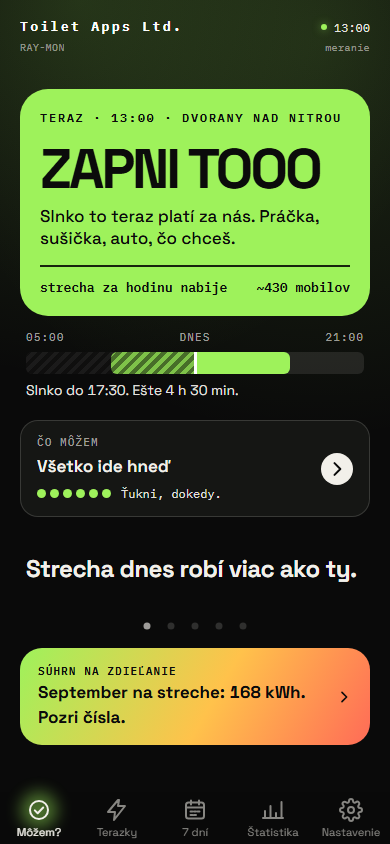
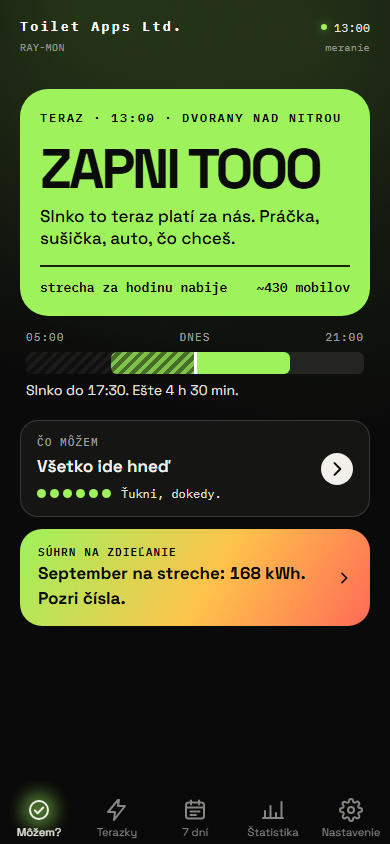
feat: karta Môžem? bez pásu hlášok (#298)
## Čo sa mení

Karta Môžem? v súčasnej appke už nemá pás hlášok na listovanie (swipe)
ani bodky pod ním.

- `web/render/mozem.js`, `web/mozem-interactions.js`: preč render pásu,
udržiavanie stránky pri prekreslení a poslucháče posunu, ťuknutia a
bodiek.
- `style.css`: preč pravidlá `.mozem-quip*`.
- `web/state.js`: preč `mozemQuip`.
- `test/e2e/app.spec.js`: preč testy pásu hlášok (listovanie, ťah nad
pásom).
- README, ARCHITECTURE a komentár v `index.html` už o páse nehovoria.
- Obnovená snímka `docs/img/mozem.png`.

Model v `shared/mozem.js` ostáva bez zmeny – hlášku na ťuknutie ukazuje
nová appka (`obloha/`), tej sa zmena netýka.

## Overenie

- `npm run check` – zelené (350 testov)
- `npx playwright test test/e2e/app.spec.js` – 128 prešlo
- `npm run screenshots`

🤖 Generated with [Claude Code](https://claude.com/claude-code)

Changed region(s): [[0.0308, 0.6161, 0.9538, 0.8934]]

diff --git a/web/render/mozem.js b/web/render/mozem.js
@@ -1,4 +1,4 @@
-// Karta Môžem?: jedno veľké slovo, pás dneška, riadok „Čo môžem“ a hláška; veci s ikonami sú
+// Karta Môžem?: jedno veľké slovo, pás dneška a riadok „Čo môžem“; veci s ikonami sú
 // o ťuknutie ďalej, na obrazovke so zoznamom. Celý obsah skladá render do #mozem-body,
 // v index.html je len nosič. Počíta shared/mozem.js, texty sú v shared/messages.js.
 
@@ -8,7 +8,7 @@ import { mozemModel } from '../../shared/mozem.js';
 import { summaryModel } from '../../shared/summary.js';
 import { localMinutes } from '../../shared/solar.js';
 import { ICON_NEXT, MOZEM_ICONS, MOZEM_MARKS } from '../icons.js';
-import { changed, writeHtml } from '../memo.js';
+import { writeHtml } from '../memo.js';
 import { backButtonHtml, summaryHtml, summaryLinkHtml } from './suhrn.js';
 
 /** @typedef {ReturnType<typeof mozemModel>} MozemModel */
@@ -57,34 +57,6 @@ function itemHtml(it, open) {
 }
 
 /**
- * Hlášky ako pás na listovanie - ten istý kolotoč (.pager), aký má karta Terazky pod ciferníkom.
- * Posúva a prichytáva prehliadač, ťuknutie na hlášku posunie pás na ďalšiu. Jediná hláška
- * (načítava sa) je bez bodiek a pás nemá kam ísť.
- *
- * Stránka v HTML nie je - ani aktívna bodka (tú prepína renderMozem triedou). Inak by každé
- * listovanie prepísalo celý obsah karty a prepis uprostred plynulého posunu pás zastaví.
- * @param {MozemModel} m
- */
-function quipsHtml(m) {
-    const pages = m.quips
-        .map(
-            (q) =>
-                `<div class="pager-page"><button type="button" class="mozem-quip" data-mozem-quip aria-label="Ďalšia hláška: ${escapeHtml(q)}"><q>${escapeHtml(q)}</q></button></div>`,
-        )
-        .join('');
-    const dots =
-        m.quips.length > 1
-            ? `<div class="pager-dots mozem-quip-dots">${m.quips
-                  .map(
-                      (_, i) =>
-                          `<button type="button" class="pager-dot" data-mozem-quip-dot="${i}" aria-label="Hláška ${i + 1} z ${m.quips.length}"></button>`,
-                  )
-                  .join('')}</div>`
-            : '';
-    return `<div class="pager mozem-quips" data-mozem-quips role="group" aria-label="Hlášky, potiahni do strán" tabindex="0">${pages}</div>${dots}`;
-}
-
-/**
  * Riadok, ktorý otvára zoznam vecí: koľko ide hneď, bodka za každú vec vo farbe jej odpovede
  * a výnimky slovom. Ikony sú až v zozname, karta ostáva čistá.
  * @param {MozemModel} m
@@ -103,7 +75,7 @@ function glanceHtml(m) {
  * @param {MozemModel} m @param {string} kick
  */
 export function mozemHtml(m, kick) {
-    return heroHtml(m, kick) + stripHtml(m) + glanceHtml(m) + quipsHtml(m);
+    return heroHtml(m, kick) + stripHtml(m) + glanceHtml(m);
 }
 
 /**
@@ -121,45 +93,14 @@ export function mozemListHtml(m, open, kick) {
     );
 }
 
-/** Posun pásu hlášok v nosiči, null = pás tam nie je (súhrn, prvé vykreslenie). @param {HTMLElement} body */
-function quipScroll(body) {
-    const pager = body.querySelector('[data-mozem-quips]');
-    return pager ? pager.scrollLeft : null;
-}
-
-/**
- * Po prepísaní obsahu stojí nový pás hlášok na prvej stránke. Obsah sa prepisuje aj sám
- * od seba (hodiny v hlavičke každú minútu), takže bez tohto by hláška pod rukou odskočila
- * na hlášku dňa. Posun je okamžitý, nie plynulý - človek nemá vidieť, že sa pás vymenil.
- *
- * Pozíciu drží prehliadač, takže prednosť má posun starého pásu. Stránka zo stavu doň
- * dobehne až po ustálení (PAGER_SETTLE_MS) - ťuknutie na vec hneď po listovaní by pás
- * podľa nej vrátil späť. Stav platí len vtedy, keď starý pás nebol (návrat zo súhrnu).
- * @param {HTMLElement} body @param {number | null} left posun starého pásu @param {number} page stránka zo stavu
- */
-function keepQuipPage(body, left, page) {
-    const pager = body.querySelector('[data-mozem-quips]');
-    if (!(pager instanceof HTMLElement)) return;
-    const pages = pager.querySelectorAll('.pager-page');
-    const target = pages[page];
-    const byState = target instanceof HTMLElement ? target.offsetLeft - /** @type {HTMLElement} */ (pages[0]).offsetLeft : 0;
-    const to = left ?? byState;
-    if (to) pager.scrollTo({ left: to, behavior: 'instant' });
-}
-
 /** @param {import('../state.js').AppState} state @param {import('../dom.js').Dom} dom */
 export function renderMozem(state, dom) {
     // Súhrn je obrazovka tej istej karty, v tom istom nosiči - ako detail dňa v karte 7 dní.
     if (state.mozemSummary)
         return writeHtml(dom.mozemBody, summaryHtml(summaryModel(state, state.summaryPeriod), state.summaryPeriod), 'mozemBody');
-    const m = mozemModel(state, state.mozemQuip, state.launches);
+    const m = mozemModel(state, 0, state.launches);
     const kick = `Teraz · ${minutesToTimeStr(localMinutes(state.now, state.site.timezone))} · ${state.site.name}`;
     // Zoznam vecí je druhá obrazovka karty v tom istom nosiči, rovnako ako súhrn.
     if (state.mozemList) return writeHtml(dom.mozemBody, mozemListHtml(m, state.mozemOpen, kick), 'mozemBody');
-    const html = mozemHtml(m, kick) + summaryLinkHtml(summaryModel(state, 'mesiac'));
-    /** @type {number | null} */ let left = null;
-    const wrote = writeHtml(dom.mozemBody, html, 'mozemBody', () => (left = quipScroll(dom.mozemBody)));
-    if (wrote) keepQuipPage(dom.mozemBody, left, m.quipPage);
-    if (wrote || changed('mozemQuipPage', m.quipPage))
-        dom.mozemBody.querySelectorAll('[data-mozem-quip-dot]').forEach((dot, i) => dot.classList.toggle('active', i === m.quipPage));
+    writeHtml(dom.mozemBody, mozemHtml(m, kick) + summaryLinkHtml(summaryModel(state, 'mesiac')), 'mozemBody');
 }

diff --git a/test/e2e/app.spec.js b/test/e2e/app.spec.js
@@ -21,7 +21,6 @@ import {
     PREVIEW,
     DAYLOG_STORAGE_KEY,
     LAUNCH_STORAGE_KEY,
-    PAGER_SETTLE_MS,
     SETTINGS_STORAGE_KEY,
     SITE_STORAGE_KEY,
     START_STORAGE_KEY,
@@ -280,7 +279,7 @@ test('verdikt sa listuje do strán: teraz (defaultne prvá), spotrebiče, predpo
     await expect(dots.nth(0)).toHaveClass(/active/);
     await expect(page.locator('#verdict-headline')).toBeInViewport();
 
-    // Ťuknutie na odporúčanie posunie pás na ďalšiu stránku, ako hlášky na karte Môžem?.
+    // Ťuknutie na odporúčanie posunie pás na ďalšiu stránku.
     await page.locator('#verdict-headline').click();
     await expect(dots.nth(1)).toHaveClass(/active/);
     await expect(page.locator('#verdict-go-row')).toBeInViewport();
@@ -1524,12 +1523,6 @@ async function swipe(page, sel, { dx, dy = 0, ms = 0 }) {
     await cdp.detach();
 }
 
-/** Na ktorej stránke stojí pás hlášok v karte Môžem? - podľa posunu, nie podľa bodiek.
- * @param {import('@playwright/test').Page} page */
-function quipStrana(page) {
-    return page.locator('[data-mozem-quips]').evaluate((el) => Math.round(el.scrollLeft / el.clientWidth));
-}
-
 /** Ťah prstom v danom mieste obrazovky. Prázdne miesto pod krátkou kartou nie je prvok,
  * takže sa nedá zamerať selektorom ako pri `swipe`.
  * @param {import('@playwright/test').Page} page @param {{ x: number, y: number, dx: number }} opts */
@@ -1955,22 +1948,6 @@ test.describe('listovanie kariet prstom', () => {
         await expect(dots.nth(2)).toHaveClass(/active/);
         await swipe(page, '#verdict-pager', { dx: -120 });
         await ocakavajKartu(page, 'terazky');
-        expect(errors).toEqual([]);
-    });
-
-    test('ťah po hláške na karte Môžem? listuje hlášky, nie karty', async ({ page }) => {
-        const errors = await openApp(page);
-        await page.locator('#nav-mozem').click();
-        await ocakavajKartu(page, 'mozem');
-        await page.locator('[data-mozem-quips]').evaluate((el) => el.scrollIntoView({ block: 'center' }));
-
-        // Pás sa listuje sám, gesto nad ním patrí jemu - aj na prvej hláške, kam späť nie je kam.
-        // Posúvanie samotné robí prehliadač a dotyk cez CDP ho v teste nespustí (ani pri páse
-        // odporúčaní); pohyb pásu overuje koliesko v teste karty Môžem?.
-        await swipe(page, '[data-mozem-quips]', { dx: -120 });
-        await ocakavajKartu(page, 'mozem');
-        await swipe(page, '[data-mozem-quips]', { dx: 120 });
-        await ocakavajKartu(page, 'mozem');
         expect(errors).toEqual([]);
     });
 
@@ -3048,8 +3025,8 @@ test.describe('karta Štatistika', () => {
 });
 
 test.describe('karta Môžem?', () => {
-    /** Model karty tak, ako ho appka počíta v pevnom čase testov. @param {number} [quipPage] */
-    const model = (quipPage = 0) => mozemModel({ ...OWNER, now: FIXED_NOW, loading: false, pv, forecast: forecastAt(FIXED_NOW) }, quipPage);
+    /** Model karty tak, ako ho appka počíta v pevnom čase testov. */
+    const model = () => mozemModel({ ...OWNER, now: FIXED_NOW, loading: false, pv, forecast: forecastAt(FIXED_NOW) });
 
     test('o 13:00 za jasna: veľké slovo, veta, pás dneška a riadok Čo môžem podľa modelu', async ({ page }) => {
         const errors = await openApp(page);
@@ -3103,45 +3080,6 @@ test.describe('karta Môžem?', () => {
         await btn.click();
         await expect(page.locator('.mozem-more')).toHaveCount(0);
         expect(await page.evaluate(() => history.length), 'rozbalenie nepridáva krok do histórie').toBe(pred);
-        expect(errors).toEqual([]);
-    });
-
-    test('hlášky sú pás: ťuknutie a bodka posunú na inú, prekreslenie ju nechá na mieste', async ({ page }) => {
-        const errors = await openApp(page);
-        await page.locator('#nav-mozem').click();
-        const m = model();
-        const hlaska = (/** @type {number} */ i) => page.locator('.mozem-quip q').nth(i);
-        const dots = page.locator('[data-mozem-quip-dot]');
-        await expect(page.locator('.mozem-quip q')).toHaveText(m.quips);
-        await expect(dots).toHaveCount(m.quips.length);
-        await expect(hlaska(0)).toHaveText(model(0).quip);
-        await expect.poll(() => quipStrana(page)).toBe(0);
-
-        await hlaska(0).click();
-        await expect.poll(() => quipStrana(page)).toBe(1);
-        await expect(dots.nth(1)).toHaveClass(/active/);
-
-        // Návrat zo zoznamu vecí skladá pás nanovo - stojí na hláške, na ktorej človek bol.
-        // Stránka ide do stavu až po ustálení posunu, preto sa naň počká.
-        await page.waitForTimeout(PAGER_SETTLE_MS * 3);
-        await page.locator('[data-mozem-list]').click();
-        await page.locator('[data-mozem-list-back]').click();
-        await expect.poll(() => quipStrana(page)).toBe(1);
-        await expect(dots.nth(1)).toHaveClass(/active/);
-
-        // Bodka skočí na ľubovoľnú; ťuknutie na poslednú ide znova na prvú.
-        const posledna = m.quips.length - 1;
-        await dots.nth(posledna).click();
-        await expect.poll(() => quipStrana(page)).toBe(posledna);
-        await hlaska(posledna).click();
-        await expect.poll(() => quipStrana(page)).toBe(0);
-        await expect(dots.nth(0)).toHaveClass(/active/);
-
-        // Posun do strán nad pásom je to isté gesto ako prst - stránku dopočíta scroll-snap.
-        await page.locator('[data-mozem-quips]').hover();
-        await page.mouse.wheel(400, 0);
-        await expect.poll(() => quipStrana(page)).toBe(1);
-        await expect(dots.nth(1)).toHaveClass(/active/);
         expect(errors).toEqual([]);
     });
 

diff --git a/web/mozem-interactions.js b/web/mozem-interactions.js
@@ -1,4 +1,4 @@
-// Poslucháče karty Môžem?: zoznam vecí, rozbalenie veci, „Pustil/a som“, pás hlášok a súhrn na
+// Poslucháče karty Môžem?: zoznam vecí, rozbalenie veci, „Pustil/a som“ a súhrn na
 // zdieľanie. Každý končí volaním setState (alebo krokom v histórii cez backTo), kreslí
 // web/render/mozem.js.
 
@@ -6,7 +6,6 @@ import { toggleLaunch } from '../shared/launches.js';
 import { localDateKey, localMinutes } from '../shared/solar.js';
 import { SUMMARY_PERIODS } from '../shared/summary.js';
 import { backTo } from './history.js';
-import { pagerScroll, scrollPager } from './pager.js';
 import { saveLaunches } from './settings-store.js';
 import { shareSummary } from './share-image.js';
 
@@ -26,38 +25,12 @@ function logLaunch(store, id, sun) {
     store.setState({ launches });
 }
 
-/** Posunie pás hlášok (prekresľuje sa s kartou, preto sa hľadá nanovo).
- * @param {HTMLElement} body @param {number | null} index null = ďalšia */
-function scrollQuips(body, index) {
-    const pager = body.querySelector('[data-mozem-quips]');
-    if (pager instanceof HTMLElement) scrollPager(pager, index);
-}
-
-/** Pás hlášok listuje prehliadač, ako pás odporúčaní (initVerdictPager). Pás sa s obsahom karty
- * prepisuje, preto poslucháč sedí na nosiči a posun (ten nebublá) chytá cestou dole.
- * @param {Store} store @param {Dom} dom */
-function initQuipPager(store, dom) {
-    const onScroll = pagerScroll(
-        () => dom.mozemBody.querySelectorAll('[data-mozem-quip-dot]'),
-        (page) => store.setState({ mozemQuip: page }),
-    );
-    dom.mozemBody.addEventListener(
-        'scroll',
-        (e) => {
-            if (e.target instanceof HTMLElement && e.target.matches('[data-mozem-quips]')) onScroll(e.target);
-        },
-        { capture: true, passive: true },
-    );
-}
-
 /**
  * Karta Môžem?: riadok „Čo môžem“ otvorí zoznam vecí, ťuknutie na vec v ňom ju rozbalí (druhé
- * zbalí), ťuknutie na hlášku posunie pás na ďalšiu. Rozbalenie a hláška sú nastavenie vnútri
- * karty, nie krok navigácie - Späť sa na ne nevracia.
+ * zbalí). Rozbalenie je nastavenie vnútri karty, nie krok navigácie - Späť sa naň nevracia.
  * @param {Store} store @param {Dom} dom
  */
 export function initMozem(store, dom) {
-    initQuipPager(store, dom);
     dom.mozemBody.addEventListener('click', (e) => {
         const target = /** @type {HTMLElement} */ (e.target);
         // Zoznam vecí je obrazovka karty ako súhrn: otvorenie je krok navigácie, šípka späť
@@ -71,9 +44,6 @@ export function initMozem(store, dom) {
         }
         const log = target.closest('[data-mozem-log]');
         if (log instanceof HTMLElement) return logLaunch(store, log.dataset.mozemLog || '', log.dataset.sun === '1');
-        if (target.closest('[data-mozem-quip]')) return scrollQuips(dom.mozemBody, null);
-        const dot = target.closest('[data-mozem-quip-dot]');
-        if (dot instanceof HTMLElement) return scrollQuips(dom.mozemBody, Number(dot.dataset.mozemQuipDot));
         onSummaryClick(store, target);
     });
 }

diff --git a/web/state.js b/web/state.js
@@ -30,7 +30,6 @@ export { isWelcome, savedSettings, setupDraft } from '../shared/setup-flow.js';
  *   verdictPage: number,
  *   statsPeriod: import('../shared/stats.js').StatsPeriod,
  *   mozemOpen: string | null,
- *   mozemQuip: number,
  *   launches: import('../shared/launches.js').Launch[],
  *   dayLog: import('../shared/daylog.js').DayLog,
  *   mozemSummary: boolean,
@@ -113,10 +112,9 @@ export function initialState(now, layout, { saved = null, site = null, incoming 
         // Obdobie na karte Štatistika. Nastavenie vnútri karty, nie krok navigácie - Späť sa
         // naň nevracia, rovnako ako na vybraný deň.
         statsPeriod: /** @type {import('../shared/stats.js').StatsPeriod} */ ('dnes'),
-        // Karta Môžem?: rozbalená vec (id z MOZEM_ITEMS, null = žiadna) a stránka v páse hlášok
-        // (0 = hláška dňa). Obe sú nastavenie vnútri karty, nie krok navigácie.
+        // Karta Môžem?: rozbalená vec (id z MOZEM_ITEMS, null = žiadna). Je to nastavenie vnútri
+        // karty, nie krok navigácie.
         mozemOpen: /** @type {string | null} */ (null),
-        mozemQuip: 0,
         // Zápisy „Pustil/a som“ z tohto telefónu (web/settings-store.js). Načítajú sa pri štarte.
         launches: [],
         // Denník výroby po dňoch pre súhrn (shared/daylog.js). Načíta sa pri štarte, dopĺňa ho obnova dát.

diff --git a/style.css b/style.css
@@ -4584,29 +4584,6 @@ body:has(#page[data-panel='terazky']) .appbar-info {
     font-size: var(--fs-sm);
     color: var(--ink-70);
 }
-/* Hlášky sa listujú v tom istom kolotoči ako odporúčania na karte Terazky (.pager). */
-.mozem-quips {
-    margin-top: var(--sp-2);
-}
-.mozem-quip {
-    display: block;
-    width: 100%;
-    height: 100%;
-    padding: 4px 6px;
-    text-align: left;
-}
-.mozem-quip q {
-    display: block;
-    font-size: 24px;
-    font-weight: 700;
-    letter-spacing: -0.02em;
-    line-height: 1.15;
-    quotes: none;
-}
-.mozem-quip-dots {
-    margin: 4px 0 0;
-}
-
 /* ---- Môžem?: súhrn na zdieľanie ------------------------------------------------ */
 /* Plagát v prechode farieb stavu - ten istý, aký ide do obrázka pre story (web/share-image.js). */
 .summary {

diff --git a/index.html b/index.html
@@ -190,7 +190,7 @@
                              7 dní).
                              Listovanie má konce: na prvej stránke sa dá ísť len ďalej, na poslednej
                              len späť. Ťuknutie na stránku posunie na ďalšiu a z poslednej znova na
-                             prvú, ako hlášky na karte Môžem? (viď initNavigation v interactions.js).
+                             prvú (viď initNavigation v interactions.js).
                              Bodky nenesú číslo stránky: pás ich berie podľa poradia (viď initNavigation
                              v interactions.js), takže číslovanie nemá ako zostarnúť. -->
                     <div class="pager" id="verdict-pager" role="group" aria-label="Odporúčanie, potiahni do strán" tabindex="0">

diff --git a/README.md b/README.md
@@ -28,8 +28,7 @@ v karte Nastavenie ostávajú zavreté – QR kód v Zdieľať appku kreslí kni
   vecí ide hneď, farebná bodka za každú a výnimky slovom („5 zo 6 ide hneď · auto o 12:30“).
   Ťuknutie naň otvorí zoznam vecí – práčka, umývačka, sušička, auto, hranie a fén – s krátkou
   odpoveďou („do 15:30“, „o 10:30“, „zajtra 08:00“, „lacno“). Ťuknutie na vec ju rozbalí: čo robiť, prečo, a čo keď sa zamračí alebo to
-  treba hneď – s cenou zo siete, keď ju tarifa pozná. Dole hláška so suchým humorom, ťuknutím
-  príde ďalšia. V rozbalení spotrebiča je tlačidlo „Pustil/a som“ (keď appka radí počkať,
+  treba hneď – s cenou zo siete, keď ju tarifa pozná. V rozbalení spotrebiča je tlačidlo „Pustil/a som“ (keď appka radí počkať,
   „Pustil/a som aj tak“): spustenie sa zapíše len v telefóne, pri spotrebiči sa ukáže „beží do …“
   a pod zoznamom koľko toho človek tento mesiac pustil a koľko z toho na slnku. Kým spotrebič
   beží, druhé ťuknutie zápis zruší. Na konci karty je odkaz na **súhrn na zdieľanie**: posledných
